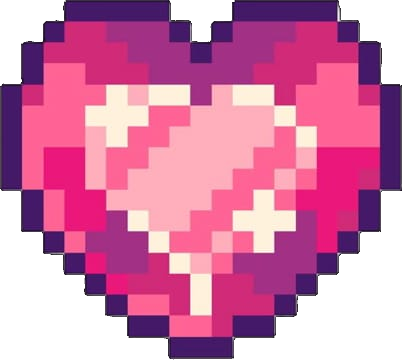
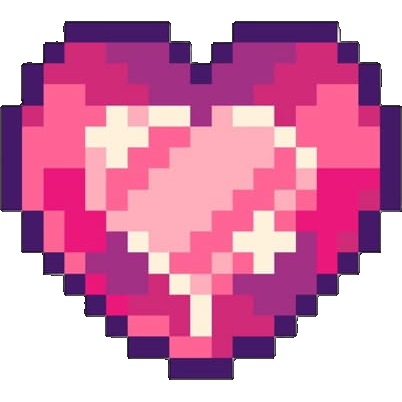
Ajustar hitboxes de enemigos y drops de objetos

diff --git a/src/main.cpp b/src/main.cpp
@@ -89,6 +89,79 @@ static constexpr float CENTRO_X = 400.0f;
 static constexpr float CENTRO_Y = 300.0f;
 static constexpr float ANCHO_PUERTA = 110.0f;
 
+static constexpr float ANCHO_VIRTUAL = 800.0f;
+static constexpr float ALTO_VIRTUAL = 600.0f;
+
+
+struct RectPantalla {
+    float x;
+    float y;
+    float w;
+    float h;
+};
+
+static RectPantalla calcularRectContainPantalla(const sf::Vector2u& tamVentana,
+                                               const sf::Vector2u& tamImagen,
+                                               float margenX = 0.015f,
+                                               float margenY = 0.015f) {
+    if (tamImagen.x == 0 || tamImagen.y == 0 || tamVentana.x == 0 || tamVentana.y == 0) {
+        return {0.0f, 0.0f, 0.0f, 0.0f};
+    }
+
+    float anchoDisponible = static_cast<float>(tamVentana.x) * (1.0f - 2.0f * margenX);
+    float altoDisponible  = static_cast<float>(tamVentana.y) * (1.0f - 2.0f * margenY);
+
+    float escalaX = anchoDisponible / static_cast<float>(tamImagen.x);
+    float escalaY = altoDisponible  / static_cast<float>(tamImagen.y);
+    float escala = std::min(escalaX, escalaY);
+
+    float anchoFinal = static_cast<float>(tamImagen.x) * escala;
+    float altoFinal  = static_cast<float>(tamImagen.y) * escala;
+
+    float x = (static_cast<float>(tamVentana.x) - anchoFinal) / 2.0f;
+    float y = (static_cast<float>(tamVentana.y) - altoFinal) / 2.0f;
+
+    return {x, y, anchoFinal, altoFinal};
+}
+
+static void aplicarRectASprite(sf::Sprite& sprite,
+                               const RectPantalla& rect,
+                               const sf::Vector2u& tamImagen) {
+    if (tamImagen.x == 0 || tamImagen.y == 0) return;
+
+    sprite.setPosition({rect.x, rect.y});
+    sprite.setScale({
+        rect.w / static_cast<float>(tamImagen.x),
+        rect.h / static_cast<float>(tamImagen.y)
+    });
+}
+
+static sf::View crearVistaLetterbox(const sf::RenderWindow& ventana) {
+    sf::View vista(sf::FloatRect({0.0f, 0.0f}, {ANCHO_VIRTUAL, ALTO_VIRTUAL}));
+
+    float anchoVentana = static_cast<float>(ventana.getSize().x);
+    float altoVentana = static_cast<float>(ventana.getSize().y);
+
+    float proporcionVentana = anchoVentana / altoVentana;
+    float proporcionJuego = ANCHO_VIRTUAL / ALTO_VIRTUAL;
+
+    float viewportX = 0.0f;
+    float viewportY = 0.0f;
+    float viewportW = 1.0f;
+    float viewportH = 1.0f;
+
+    if (proporcionVentana > proporcionJuego) {
+        viewportW = proporcionJuego / proporcionVentana;
+        viewportX = (1.0f - viewportW) / 2.0f;
+    } else if (proporcionVentana < proporcionJuego) {
+        viewportH = proporcionVentana / proporcionJuego;
+        viewportY = (1.0f - viewportH) / 2.0f;
+    }
+
+    vista.setViewport(sf::FloatRect({viewportX, viewportY}, {viewportW, viewportH}));
+    return vista;
+}
+
 
 class Juego {
 private:
@@ -192,9 +265,11 @@ private:
         sf::Vector2u tam = textura.getSize();
         if (tam.x == 0 || tam.y == 0) return;
 
+        // Ajuste tipo "contain": muestra la imagen completa sin recortarla.
+        // Si sobra espacio por los lados o arriba/abajo, queda negro.
         float escalaX = 800.0f / static_cast<float>(tam.x);
         float escalaY = 600.0f / static_cast<float>(tam.y);
-        float escala = std::max(escalaX, escalaY);
+        float escala = std::min(escalaX, escalaY);
 
         sprite.setScale({escala, escala});
         sprite.setPosition({
@@ -378,7 +453,7 @@ private:
         std::vector<std::vector<std::string>> paginas = {
             {
                 "WIKIPEDIA - PERSONAJES",
-                "Heroe de Software: Un estudiante elegido por el edificio. Tras quedarse",
+                "Ingeniero en Sistemas: Un estudiante elegido por el edificio. Tras quedarse",
                 "programando hasta tarde, encontro una falla extrana en los laboratorios y",
                 "desperto con una espada de energia hecha de codigo compilado.",
                 "",
@@ -494,6 +569,7 @@ private:
 
     bool mostrarMenuPrincipal() {
         musicaPortada.stop();
+        ventana.setView(ventana.getDefaultView());
 
         if (musicaMenu.openFromFile("assets/music/menu_theme.wav")) {
             musicaMenu.setLooping(true);
@@ -503,7 +579,13 @@ private:
 
         int opcion = 0;
         const int totalOpciones = 4;
-        const float posicionesY[4] = {159.0f, 261.0f, 363.0f, 486.0f};
+
+        // Coordenadas tomadas sobre la imagen original del menu_principal.png.
+        // Así el selector queda centrado aunque la imagen se escale en pantalla completa.
+        const float selectorCentroXImagen = 683.0f;
+        const std::array<float, 4> selectorCentroYImagen = {204.0f, 337.0f, 469.0f, 624.0f};
+        const float selectorAnchoImagen = 390.0f;
+        const float selectorAltoImagen = 82.0f;
 
         while (ventana.isOpen()) {
             while (const std::optional<sf::Event> evento = ventana.pollEvent()) {
@@ -528,13 +610,16 @@ private:
                     if (kp->code == sf::Keyboard::Key::Enter ||
                         kp->code == sf::Keyboard::Key::Space) {
                         reproducirSonido(bufferMenuSelect, hayMenuSelect, 65.0f);
+
                         if (opcion == 0) {
                             musicaMenu.stop();
+                            ventana.setView(crearVistaLetterbox(ventana));
                             return true;
                         }
 
                         if (opcion == 1) {
                             mostrarWikipedia();
+                            ventana.setView(ventana.getDefaultView());
                         } else if (opcion == 2) {
                             mostrarMensaje("Controles: WASD mover, IJKL disparar", 2.5f);
                         } else if (opcion == 3) {
@@ -556,23 +641,44 @@ private:
                 reloj.restart();
             }
 
+            ventana.setView(ventana.getDefaultView());
             ventana.clear(sf::Color::Black);
 
+            RectPantalla rectMenu{0.0f, 0.0f, static_cast<float>(ventana.getSize().x), static_cast<float>(ventana.getSize().y)};
+
             if (hayTexturaMenuPrincipal) {
-                dibujarImagenPantallaCompleta(texturaMenuPrincipal);
+                sf::Sprite fondoMenu(texturaMenuPrincipal);
+                rectMenu = calcularRectContainPantalla(
+                    ventana.getSize(),
+                    texturaMenuPrincipal.getSize(),
+                    0.008f,
+                    0.008f
+                );
+                aplicarRectASprite(fondoMenu, rectMenu, texturaMenuPrincipal.getSize());
+                ventana.draw(fondoMenu);
             } else {
-                sf::RectangleShape fondo({800.0f, 600.0f});
+                sf::RectangleShape fondo({static_cast<float>(ventana.getSize().x), static_cast<float>(ventana.getSize().y)});
                 fondo.setFillColor(sf::Color(25, 15, 10));
                 ventana.draw(fondo);
             }
 
-            sf::RectangleShape selector({300.0f, 72.0f});
-            selector.setOrigin({150.0f, 36.0f});
-            selector.setPosition({400.0f, posicionesY[opcion]});
-            selector.setFillColor(sf::Color(255, 220, 80, 45));
-            selector.setOutlineColor(sf::Color(255, 225, 90));
-            selector.setOutlineThickness(3.0f);
-            ventana.draw(selector);
+            if (hayTexturaMenuPrincipal && texturaMenuPrincipal.getSize().x > 0 && texturaMenuPrincipal.getSize().y > 0) {
+                float escalaX = rectMenu.w / static_cast<float>(texturaMenuPrincipal.getSize().x);
+                float escalaY = rectMenu.h / static_cast<float>(texturaMenuPrincipal.getSize().y);
+
+                float selectorW = selectorAnchoImagen * escalaX;
+                float selectorH = selectorAltoImagen * escalaY;
+                float selectorX = rectMenu.x + selectorCentroXImagen * escalaX;
+                float selectorY = rectMenu.y + selectorCentroYImagen[opcion] * escalaY;
+
+                sf::RectangleShape selector({selectorW, selectorH});
+                selector.setOrigin({selectorW / 2.0f, selectorH / 2.0f});
+                selector.setPosition({selectorX, selectorY});
+                selector.setFillColor(sf::Color(255, 220, 80, 38));
+                selector.setOutlineColor(sf::Color(255, 225, 90));
+                selector.setOutlineThickness(std::max(3.0f, selectorH * 0.045f));
+                ventana.draw(selector);
+            }
 
             dibujarMensajePantalla();
 
@@ -711,7 +817,15 @@ private:
 
     void procesarEventos() {
         while (const std::optional<sf::Event> evento = ventana.pollEvent()) {
-            if (evento->is<sf::Event::Closed>()) ventana.close();
+            if (evento->is<sf::Event::Closed>()) {
+                ventana.close();
+            }
+
+            if (const auto* tecla = evento->getIf<sf::Event::KeyPressed>()) {
+                if (tecla->code == sf::Keyboard::Key::Escape) {
+                    ventana.close();
+                }
+            }
         }
     }
 
@@ -806,13 +920,45 @@ private:
         ventana.draw(circulo);
     }
 
+    sf::Vector2f centroHitboxEnemigo(Enemigo* enemigo) const {
+        if (!enemigo) return {0.0f, 0.0f};
+
+        sf::Vector2f centro = enemigo->getPosicion();
+
+        // Los sprites de enemigos tienen espacio transparente alrededor.
+        // Este pequeño ajuste centra mejor la zona real de contacto.
+        if (dynamic_cast<Blob*>(enemigo)) {
+            centro += sf::Vector2f(0.0f, 4.0f);
+        } else if (dynamic_cast<Raptor*>(enemigo)) {
+            centro += sf::Vector2f(0.0f, 6.0f);
+        } else if (dynamic_cast<Rusher*>(enemigo)) {
+            centro += sf::Vector2f(0.0f, 5.0f);
+        } else if (dynamic_cast<Spreadshot*>(enemigo)) {
+            centro += sf::Vector2f(0.0f, 5.0f);
+        }
+
+        return centro;
+    }
+
+    float radioHitboxEnemigo(Enemigo* enemigo) const {
+        if (!enemigo) return 0.0f;
+
+        // Un poco más grandes que antes, pero sin rebasar visualmente el sprite.
+        if (dynamic_cast<Blob*>(enemigo)) return 23.0f;
+        if (dynamic_cast<Raptor*>(enemigo)) return 27.0f;
+        if (dynamic_cast<Rusher*>(enemigo)) return 25.0f;
+        if (dynamic_cast<Spreadshot*>(enemigo)) return 26.0f;
+
+        return enemigo->getRadio();
+    }
+
     float probabilidadDropEnemigo(Enemigo* enemigo) const {
         // Drop rates ajustados: un poco más altos que antes,
         // pero sin llenar toda la sala de objetos.
-        if (dynamic_cast<Blob*>(enemigo)) return 0.15f;
-        if (dynamic_cast<Raptor*>(enemigo)) return 0.20f;
-        if (dynamic_cast<Rusher*>(enemigo)) return 0.25f;
-        if (dynamic_cast<Spreadshot*>(enemigo)) return 0.25f;
+        if (dynamic_cast<Blob*>(enemigo)) return 0.20f;
+        if (dynamic_cast<Raptor*>(enemigo)) return 0.25f;
+        if (dynamic_cast<Rusher*>(enemigo)) return 0.30f;
+        if (dynamic_cast<Spreadshot*>(enemigo)) return 0.30f;
         return 0.0f;
     }
 
@@ -915,7 +1061,8 @@ private:
             for (auto& enemigo : enemigos) {
                 if (!proy.estaDestruido() && !enemigo->estaMuerto() &&
                     colisionan(proy.getPosicion(), proy.getRadio(),
-                               enemigo->getPosicion(), enemigo->getRadio())) {
+                               centroHitboxEnemigo(enemigo.get()),
+                               radioHitboxEnemigo(enemigo.get()))) {
                     reproducirSonidoDanioEnemigo(enemigo.get());
                     enemigo->recibirDanio(1);
                     proy.destruir();
@@ -925,7 +1072,8 @@ private:
 
         for (auto& enemigo : enemigos) {
             if (!enemigo->estaMuerto() &&
-                colisionan(enemigo->getPosicion(), enemigo->getRadio(),
+                colisionan(centroHitboxEnemigo(enemigo.get()),
+                           radioHitboxEnemigo(enemigo.get()),
                            isaac->getCentroHitbox(), isaac->getRadio())) {
                 if (!isaac->esInvulnerable()) {
                     reproducirSonido(bufferPlayerHurt, hayPlayerHurt, 55.0f);
@@ -1814,6 +1962,8 @@ private:
             return;
         }
 
+        ventana.setView(crearVistaLetterbox(ventana));
+
         personajeElegido = seleccionarPersonaje();
         if (personajeElegido < 0) {
             ventana.close();
@@ -1829,6 +1979,7 @@ private:
     }
 
     void renderizar() {
+        ventana.setView(crearVistaLetterbox(ventana));
         ventana.clear(sf::Color(0, 0, 0));
         dibujarFondoSala();
         dibujarPuertasDisponibles();
@@ -1844,7 +1995,7 @@ private:
             isaac->dibujarHitbox(ventana);
 
             for (auto& enemigo : enemigos) {
-                dibujarCirculoDebug(enemigo->getPosicion(), enemigo->getRadio(), sf::Color::Yellow);
+                dibujarCirculoDebug(centroHitboxEnemigo(enemigo.get()), radioHitboxEnemigo(enemigo.get()), sf::Color::Yellow);
             }
 
             for (auto& lagrima : lagrimasEnemigas) {
@@ -1871,7 +2022,7 @@ private:
 
 public:
     Juego()
-        : ventana(sf::VideoMode({800, 600}), "Aventuras en el Edificio de Software"),
+        : ventana(sf::VideoMode::getDesktopMode(), "Aventuras en el Edificio de Software", sf::State::Fullscreen),
           hayTexturaPortada(false),
           hayTexturaMenuPrincipal(false),
           pistaFondoActual(""),
@@ -1910,6 +2061,7 @@ public:
           tiempoMensaje(0.0f),
           hayFuenteHUD(false) {
         ventana.setFramerateLimit(60);
+        ventana.setView(crearVistaLetterbox(ventana));
         std::srand(static_cast<unsigned>(std::time(nullptr)));
         cargarSonidos();
 